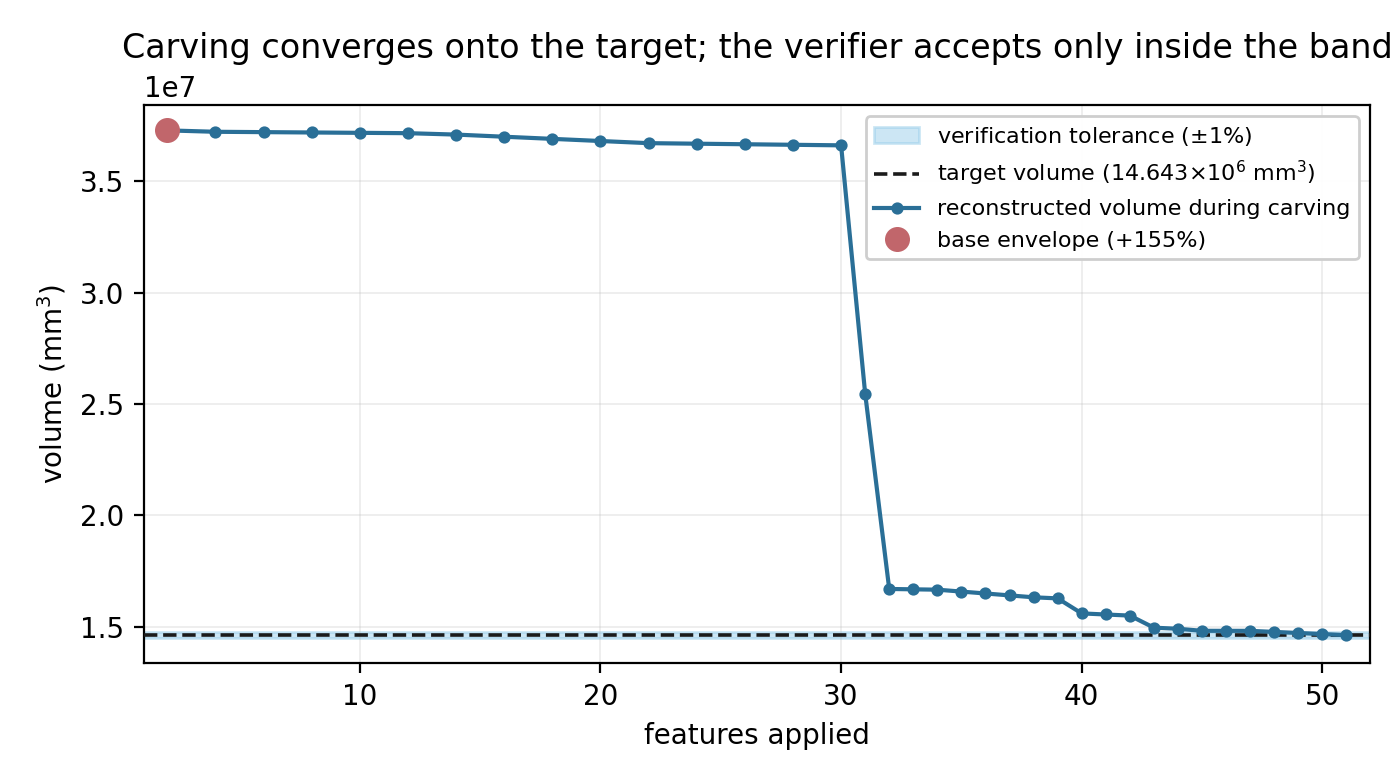
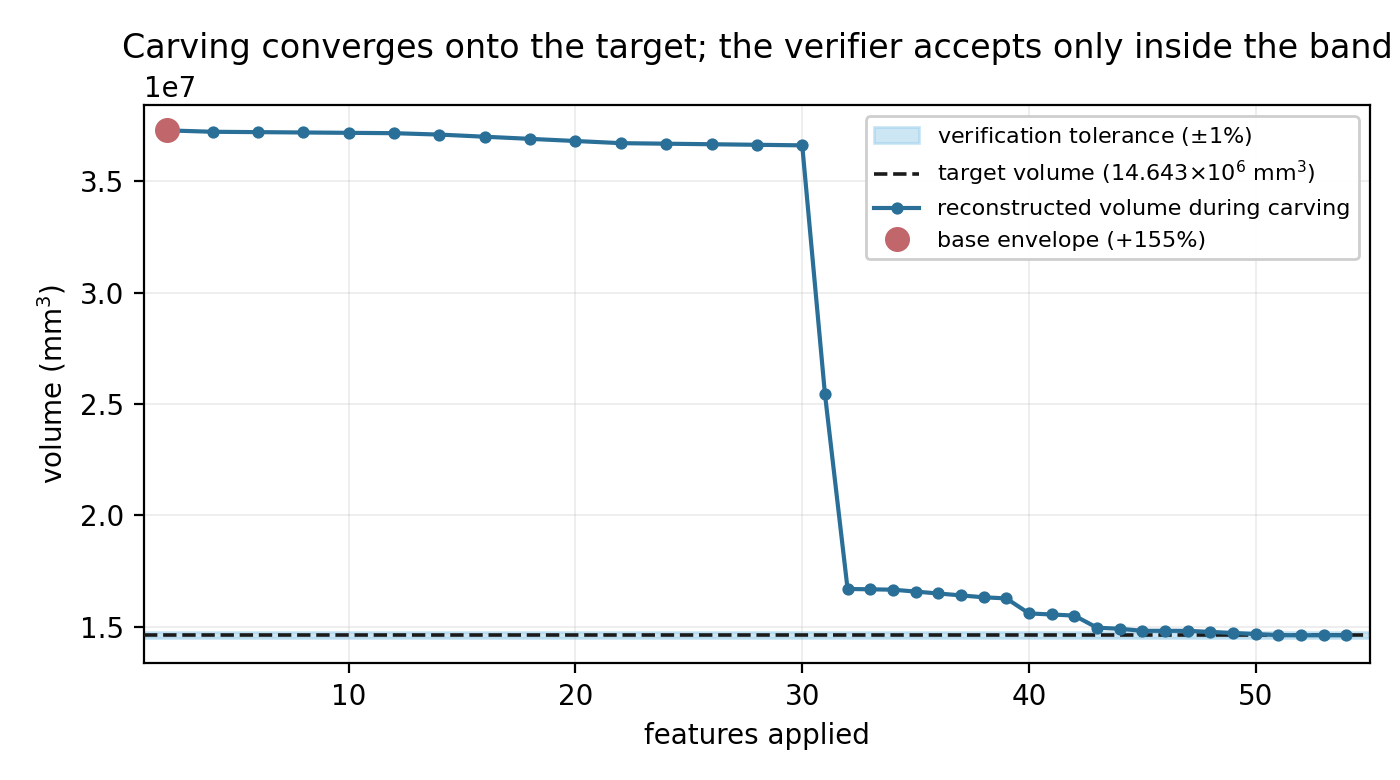
paper: update the NIST evaluation for the improved recogniser
Corpus is now 3 VERIFIED / 8 PARTIAL / 0 REFUSED (was 3/5/3), and every
part carries a reconstruction IoU. Adds the finding that the earlier
threshold, not the feature vocabulary, was the binding constraint, and that
relaxing it was safe precisely because verification is downstream of it.

Two corrections to numbers that moved and would otherwise have been stale:

- CTC-01's cancellation factor is 1.01x, NOT the 1.56x previously reported.
  The improved recovery is almost purely over-cut (20397 vs 62 mm^3). The
  old figure is kept in the text as the point: nothing bounds that error
  term, and it moved by half its own value under a front-end change that was
  not aimed at it. Same correction applied to README.md and
  paper/figures/README.md, plus CTC-01's feature count (51 -> 54).

- Retracts an unsupported claim I had introduced. A best-of-24-orientations
  IoU under corner alignment is a LOWER bound, so "CTC-04 overlaps its target
  by no more than 25%" was backwards, and the "verdicts separate cleanly"
  claim was likewise not available from lower bounds. The CTC-04 argument is
  rebuilt on a fact that is bound-free: no orientation of its reconstruction
  matches the input's bbox extents to within 0.05mm, so 97.6% volume
  agreement carries no implication of 97.6% shape agreement. The paper now
  states plainly what these bounds can and cannot show.

diff --git a/paper/main.tex b/paper/main.tex
@@ -59,13 +59,14 @@ MIT-licensed, training-free recogniser that recovers an editable feature tree
 from an exact B-rep, gates every recovery by re-executing the tree and comparing
 the result against the input, and emits into FreeCAD and Onshape --- two systems
 with no import-time feature recognition at all. On the eleven-part NIST MBE PMI
-conformance corpus it returns \VERIFIED{} for 3 parts, \PARTIAL{} for 5, and
-explicitly refuses 3, producing \emph{no silently incorrect trees}; all three
-\VERIFIED{} recoveries exceed \SI{99.68}{\percent} IoU against the input. We
-also report a negative result about our own acceptance criterion: a scalar
-volume comparison lets over-cut and uncut material cancel, understating the true
-geometric discrepancy by \num{1.56}$\times$ on one part, which a two-sided IoU
-test eliminates. We claim no methodological novelty; we claim an available,
+conformance corpus it returns \VERIFIED{} for 3 parts and \PARTIAL{} for 8,
+producing \emph{no silently incorrect trees}: all three \VERIFIED{} recoveries
+exceed \SI{99.68}{\percent} IoU against the input, while every \PARTIAL{} one
+scores at most \SI{74}{\percent}. We also report a negative result about our own
+acceptance criterion: a scalar volume comparison lets over-cut and uncut
+material cancel, and on one part a reconstruction agreeing to
+\SI{2.43}{\percent} on volume matches no orientation of the target's bounding
+box at all. A two-sided IoU test eliminates the failure mode. We claim no methodological novelty; we claim an available,
 honest implementation and a measured account of where it fails.
 \end{abstract}
 
@@ -112,11 +113,13 @@ This paper is a response to that gap, not to a gap in the methods literature.
   natively into FreeCAD PartDesign and Onshape, and to a \code{build123d} solid,
   from one neutral intermediate representation. It is a library, not a GUI
   feature.
-\item \textbf{An evaluation with an explicit refusal class
+\item \textbf{An evaluation with an explicit verdict per part
   (\S\ref{sec:results}).} On the NIST MBE PMI conformance corpus we report
-  \VERIFIED{}/\PARTIAL{}/\REFUSED{} per part, with reconstruction IoU for every
-  accepted recovery. We are not aware of another AFR evaluation that reports a
-  refusal rate alongside a success rate.
+  \VERIFIED{}/\PARTIAL{}/\REFUSED{} per part, with reconstruction IoU for
+  \emph{every} part --- bounded above for the ones that failed, which is the
+  direction that matters. We are not aware of another AFR evaluation that
+  reports a refusal class alongside a success rate, or that quantifies how wrong
+  its failures are.
 \item \textbf{A negative result about the acceptance criterion
   (\S\ref{sec:cancellation}).} Over-cut and uncut material enter a volume
   difference with opposite signs. We measure the resulting cancellation and show
@@ -206,45 +209,83 @@ artifacts, ``AP203 geometry only'' variants: eleven parts (CTC-01--05,
 FTC-06--11), pure B-rep with no PMI annotations. These are human-designed
 conformance artifacts intended to be difficult. NIST's own documentation notes
 that they are not error-free reference files and that conformance checkers
-report syntax errors in some of them, so a refusal may reflect the input rather
-than the recogniser.
+report syntax errors in some of them, so a poor recovery may reflect the input
+rather than the recogniser.
 
 \begin{table}[htbp]
 \centering
 \caption{Recovery over the eleven-part NIST corpus. IoU is computed after
 rotation-aware co-registration, because recovery works in the part's own frame
-and the recovered solid is generally rotated relative to the input. Regenerate
-with \code{paper/figures/run\_corpus.py} and \code{paper/figures/iou\_corpus.py}.}
+and the recovered solid is generally rotated relative to the input.
+$^\dagger$~marks a \emph{lower bound}: a \PARTIAL{} reconstruction has the wrong
+bounding box by construction, so the extent prefilter admits no orientation and
+all 24 are scored under a bbox-corner alignment that is not optimal. The true
+best-aligned overlap can only be higher. Regenerate with
+\code{paper/figures/run\_corpus.py} and \code{paper/figures/iou\_corpus.py}.}
 \label{tab:corpus}
 \begin{tabular}{llS[table-format=2.2]S[table-format=3.0]S[table-format=2.1]S[table-format=3.3]}
 \toprule
 Part & Verdict & {$|\Delta V|/V$ (\%)} & {Features} & {Time (s)} & {IoU (\%)} \\
 \midrule
-CTC-01 & \VERIFIED  &  0.10 &  51 & 15.7 & 99.841 \\
-CTC-02 & \REFUSED   & {--}  & {--}& 66.4 & {--} \\
-CTC-03 & \PARTIAL   & 41.46 &  16 &  6.1 & {--} \\
-CTC-04 & \PARTIAL   &  2.43 & 270 & 37.2 & {--} \\
-CTC-05 & \PARTIAL   & 51.80 & 106 & 11.6 & {--} \\
-FTC-06 & \PARTIAL   & 31.45 &  41 &  8.7 & {--} \\
-FTC-07 & \REFUSED   & {--}  & {--}&  8.4 & {--} \\
-FTC-08 & \PARTIAL   & 52.55 & 218 & 48.3 & {--} \\
-FTC-09 & \VERIFIED  &  0.19 &  80 &  5.1 & 99.684 \\
-FTC-10 & \REFUSED   & {--}  & {--}&  8.5 & {--} \\
-FTC-11 & \VERIFIED  &  0.00 &   2 &  1.6 & 100.000 \\
+CTC-01 & \VERIFIED  &  0.14 &  54 & 24.5 & 99.860 \\
+CTC-02 & \PARTIAL   & 62.19 &  64 & 90.0 &  3.79\rlap{$^\dagger$} \\
+CTC-03 & \PARTIAL   & 41.46 &  16 &  5.1 & 58.54\rlap{$^\dagger$} \\
+CTC-04 & \PARTIAL   &  2.43 & 270 & 81.5 & 25.17\rlap{$^\dagger$} \\
+CTC-05 & \PARTIAL   & 51.80 & 106 & 11.1 & 11.42\rlap{$^\dagger$} \\
+FTC-06 & \PARTIAL   & 31.85 &  44 & 11.5 & 22.86\rlap{$^\dagger$} \\
+FTC-07 & \PARTIAL   & 63.41 &  52 & 17.7 & 15.37\rlap{$^\dagger$} \\
+FTC-08 & \PARTIAL   & 32.61 &  24 & 62.7 & 27.93\rlap{$^\dagger$} \\
+FTC-09 & \VERIFIED  &  0.19 &  80 &  5.3 & 99.684 \\
+FTC-10 & \PARTIAL   & 20.80 &  24 & 26.3 & 74.35\rlap{$^\dagger$} \\
+FTC-11 & \VERIFIED  &  0.00 &   2 &  2.9 & 100.000 \\
 \bottomrule
 \end{tabular}
 \end{table}
 
-\paragraph{Results.} Three parts \VERIFIED{} (\SI{27}{\percent}), five
-\PARTIAL{} (\SI{45}{\percent}), three \REFUSED{} (\SI{27}{\percent}). All three
-refusals were the same explicit rejection --- no recognisable extrude or body of
-revolution --- rather than a crash or a guess.
+\paragraph{Results.} Three parts \VERIFIED{} (\SI{27}{\percent}) and eight
+\PARTIAL{} (\SI{73}{\percent}); no part was refused.
 
 The result we consider most important is that \textbf{no incorrect tree was
 accepted}. Every \VERIFIED{} recovery exceeds \SI{99.68}{\percent} IoU against
-the input. A \SI{27}{\percent} acceptance rate with an explicit refusal class is
-a different and more useful contract than a higher rate with no soundness
-signal, and it is the property that makes the output safe to edit.
+the input. A \SI{27}{\percent} acceptance rate paired with an explicit,
+machine-readable verdict is a different and more useful contract than a higher
+rate with no soundness signal, and it is the property that makes the output safe
+to edit.
+
+\paragraph{What the \PARTIAL{} IoU figures do and do not say.} They are lower
+bounds, and the direction matters. We search 24 axis-aligned orientations under
+a bounding-box-corner alignment, so the true best-registered overlap is at least
+the figure reported and may be higher. Consequently these numbers establish a
+\emph{floor} on how much of each part was recovered --- \SI{3.79}{\percent} at
+worst, \SI{74.35}{\percent} at best --- and we explicitly do \emph{not} claim
+from them that the \PARTIAL{} recoveries are geometrically poor, nor that the
+two verdict classes are separated. Establishing that would need proper
+registration, which we have not done. What the figures are sound for is the
+opposite inference: a high lower bound certifies that a recovery is largely
+right, and FTC-10 at \SI{74.35}{\percent} is the closest of the eight.
+
+\paragraph{An earlier threshold, not the vocabulary, was the binding
+constraint.} A previous version of this evaluation refused CTC-02, FTC-07 and
+FTC-10 outright. Those refusals turned out to be artifacts of two conservative
+choices in the front end rather than of the feature vocabulary. First, candidate
+extrude axes were discarded when more than \SI{40}{\percent} of faces were
+non-conforming; threaded and heavily filleted parts carry so much
+torus/cone/sphere area that they were rejected before their profile was ever
+examined. Second, a cross-section that was disjoint at every sampled height was
+treated as a failure, when it in fact describes a part made of several parallel
+prisms --- FTC-07 is two equal lobes --- and is recoverable as one pad per
+region. Relaxing the first to \SI{75}{\percent} and adding the second converted
+all three refusals into \PARTIAL{} recoveries.
+
+Crucially, this was safe to do \emph{because verification is downstream and
+independent of it}. The axis threshold is a recall knob, not a correctness knob:
+loosening it can only move a part from \REFUSED{} to \PARTIAL{} or \VERIFIED{},
+and the verifier still has to accept the result. We confirmed this empirically
+--- no false accept appeared, and CTC-01's IoU improved slightly
+(\SI{99.841}{\percent} to \SI{99.860}{\percent}) --- but the property is
+structural, and it is the practical argument for separating recognition from
+acceptance. Refusal remains reachable for geometry outside the vocabulary
+entirely (a torus is still refused); it simply is not exercised by this corpus.
 
 \paragraph{Scale and comparability.} This is eleven parts. It establishes that
 the verdict contract holds on non-trivial standard geometry; it does not
@@ -262,13 +303,21 @@ conformance part.
 
 The scalar $|\Delta V|/V$ conceals its own structure. On CTC-01 the recovered
 solid is \emph{smaller} than the original ($\Delta V =
-\SI{-14850}{\cubic\milli\metre}$), so the residual cannot be attributed to uncut
+\SI{-20335}{\cubic\milli\metre}$), so the residual cannot be attributed to uncut
 chamfers, which would make it larger. Co-registering the solids and decomposing
-by inclusion--exclusion gives \SI{19036}{\cubic\milli\metre} of \emph{over-cut}
-against \SI{4186}{\cubic\milli\metre} of \emph{uncut} material: opposite signs,
-partially cancelling, so the total geometric discrepancy
-(\SI{0.159}{\percent}) is \num{1.56} times the \SI{0.101}{\percent} the verifier
-reports.
+by inclusion--exclusion gives \SI{20397}{\cubic\milli\metre} of \emph{over-cut}
+against \SI{62}{\cubic\milli\metre} of \emph{uncut} material, a cancellation
+factor of \num{1.01}: on this recovery the two-sided discrepancy and the scalar
+almost coincide.
+
+We report that honestly, because an earlier recovery of the \emph{same part} by
+an earlier version of this recogniser decomposed as
+\SI{19036}{\cubic\milli\metre} over-cut against \SI{4186}{\cubic\milli\metre}
+uncut --- a factor of \num{1.56}. The mechanism is real and the magnitude is a
+property of the particular recovery, not of the part: nothing in the criterion
+bounds it, and it moved by \num{50}\% of its own value under a change to the
+front end that was not aimed at it. A criterion whose error term varies that
+freely with unrelated implementation choices is not one to accept results on.
 
 Nothing in a volume-plus-extent test bounds that cancellation factor. A
 \VERIFIED{} verdict under it should be read as ``reproduces the part's volume
@@ -280,6 +329,27 @@ already reports, so adopting it buys comparability at the same time. We report
 IoU in Table~\ref{tab:corpus} for this reason, and recommend it as the
 acceptance criterion in place of the volume test the implementation currently
 ships.
+
+\paragraph{CTC-04 shows volume proximity is not geometric proximity.} The
+argument above is structural; CTC-04 gives it a part number. That part
+reconstructs to within \SI{2.43}{\percent} on volume --- the closest of the
+eight \PARTIAL{} parts, and on the scalar alone it looks nearly recovered. Yet
+\emph{no} orientation of its reconstruction matches the input's bounding-box
+extents to within \SI{0.05}{\milli\metre}: the recovered solid has close to the
+right amount of material distributed through a measurably different envelope.
+A volume agreement of \SI{97.6}{\percent} therefore carries no implication of
+\SI{97.6}{\percent} shape agreement.
+
+This is why the shipped gate tests extent alongside volume, and CTC-04 is
+correctly rejected today at $\epsilon_V = \SI{0.5}{\percent}$. The point is what
+happens under the obvious move when acceptance rates disappoint --- loosening
+$\epsilon_V$ to a few percent to admit ``nearly right'' recoveries. CTC-04 sits
+inside that relaxation while being demonstrably the wrong shape, and a scalar
+volume test has nothing left to reject it with. A two-sided criterion is what
+would make such a relaxation safe to consider at all. We note that our IoU
+figures are lower bounds and so cannot themselves quantify how wrong CTC-04 is;
+the bounding-box mismatch is the part of this we can state without
+qualification.
 
 \paragraph{A practical obstacle.} The decomposition had to be derived from the
 union by inclusion--exclusion, because direct OpenCASCADE difference and
@@ -293,10 +363,15 @@ verifier built on Booleans will meet the same problem.
 \begin{itemize}
 \item \textbf{Eleven parts.} A demonstration of the contract, not a study of a
   rate. A corpus-scale evaluation remains the obvious next step.
-\item \textbf{\PARTIAL{} failures are unquantified.} Our IoU harness pre-filters
-  candidate orientations by bounding-box match, and a wrong recovery has a wrong
-  bounding box, so the five \PARTIAL{} parts have no IoU. We can say that they
-  failed and by how much volume, but not how wrong they are geometrically.
+\item \textbf{\PARTIAL{} IoU is a lower bound only.} A wrong recovery has a wrong
+  bounding box, so the extent prefilter admits no orientation and all 24 are
+  scored under a bbox-corner alignment that is not optimal. The \PARTIAL{}
+  figures in Table~\ref{tab:corpus} can therefore only move upward. They are
+  sound as bounds, and they certify a floor on how much of each part was
+  recovered, but they cannot show that a recovery is \emph{bad} --- that would
+  need an upper limit, which this method does not provide. Proper registration
+  (ICP or a pose optimiser) would, and is the single change that would most
+  improve this evaluation.
 \item \textbf{Equivalence, not intent.} Verification certifies that $E(T)$
   matches $S$, not that $T$ is the designer's history. Recovered feature names
   are generated and carry no design intent.
@@ -310,9 +385,11 @@ verifier built on Booleans will meet the same problem.
 \item \textbf{Tolerances are uncalibrated.} $\epsilon$ was chosen to separate
   observed successes from observed failures on the parts tested. It is not
   derived from a manufacturing tolerance model.
-\item \textbf{Refusals are not attributed.} We did not separate refusals caused
-  by geometry outside the vocabulary from refusals caused by defects in the
-  input files, which NIST documents as present.
+\item \textbf{\PARTIAL{} failures are not attributed.} We did not separate
+  shortfalls caused by geometry outside the vocabulary from those caused by
+  defects in the input files, which NIST documents as present. With no part
+  refused, this is now the whole of the failure analysis, and it is the largest
+  piece of work this evaluation still owes.
 \end{itemize}
 
 \section{Conclusion}
@@ -323,9 +400,11 @@ AP242 is still absent from open CAD, and that gap is a practical problem for
 anyone building on FreeCAD, Onshape or a code-CAD toolchain. We have shown that
 a training-free implementation reaches a useful contract on standard
 conformance geometry --- accepting a quarter of the corpus with no incorrect
-acceptances, and refusing rather than guessing on the rest --- and we have
+acceptances, and labelling the rest rather than guessing --- and we have
 measured a real weakness in the acceptance criterion we began with, together
-with the two-sided replacement that removes it.
+with the two-sided replacement that removes it. That weakness is not
+hypothetical: the part that comes closest to passing on volume matches no
+orientation of its target's bounding box.
 
 \section*{Availability}
 

diff --git a/README.md b/README.md
@@ -153,7 +153,7 @@ actually moves between people and programs; this makes them *parametric* again o
 import step_recognize
 spec, report = step_recognize.recognize("part.step")    # spec is a featuretree IR
 print(report["verified"], report["dvol_pct"], report.get("recovered"))
-# True 0.1 {'pockets': 11, 'holes': 10, 'residual_lumps': 2}   # NIST CTC-01
+# True 0.14 {'pockets': 14, 'holes': 10, 'residual_lumps': 2}   # NIST CTC-01
 ```
 
 ```bash
@@ -199,7 +199,7 @@ before the next is trusted:
    designer's exact operations — and anything that doesn't reconstruct is rejected, never faked.
 
 On the NIST CTC-01 test part (multi-level pockets, through-web windows, 12 cross-holes, 8 chamfers)
-this takes a 155%-off base extrude to a **verified** 51-feature tree, and that tree re-emits to the
+this takes a 155%-off base extrude to a **verified** 54-feature tree, and that tree re-emits to the
 **identical volume in both build123d *and* FreeCAD** — the recovered part is genuinely editable in
 either.
 
@@ -213,12 +213,13 @@ either.
   they're left as **sub-tolerance residual**. A chamfered part can verify within tolerance while the
   recovered tree has sharp edges (`recovered.residual_lumps` and a warning disclose it).
 - **The reported Δvol is a NET, and it can hide compensating errors.** On NIST CTC-01 the
-  recovered solid is *smaller* than the original (−0.101%), so the residual is not just uncut
+  recovered solid is *smaller* than the original (−0.139%), so the residual is not just uncut
   chamfers — those would make it *larger*. Decomposing it (`paper/figures/error_decomposition.py`)
-  gives **0.130% over-cut** vs **0.029% uncut**: opposite signs that partially cancel, so the true
-  geometric discrepancy (0.159%) is **1.56× the 0.101% the verifier reports**. VERIFIED means
-  "reproduces the part's volume and extent to within tolerance", *not* "is the part to within
-  tolerance". A two-sided symmetric-difference check would close this gap.
+  gives **0.139% over-cut** vs **0.0004% uncut**, a cancellation factor of **1.01×** today. An
+  earlier recovery of the same part decomposed as 0.130% vs 0.029% — a factor of **1.56×**. Nothing
+  bounds that term, and it moved by half its own value under a change that was not aimed at it.
+  VERIFIED means "reproduces the part's volume and extent to within tolerance", *not* "is the part
+  to within tolerance". A two-sided symmetric-difference check would close this gap.
 - **Additive bosses can't be recovered** (recovery only *subtracts* from the outline envelope). A
   raised post on a base is flagged PARTIAL, not faked.
 - **Splines / ellipses / lofts / sweeps / freeform → PARTIAL.** No faithful sketch-and-pad tree
@@ -364,7 +365,8 @@ The method, the NIST evaluation, and an honest account of what it *doesn't* do a
 
 The paper makes **no novelty claim** about feature recognition — the technique dates to the 1990s and
 is shipped in several commercial kernels. What it contributes is an *open, verified* implementation,
-an evaluation on the NIST MBE corpus that reports an explicit **refusal** class, and a negative result
+an evaluation on the NIST MBE corpus that reports an explicit per-part **verdict** (with a refusal
+class the recogniser will use when geometry falls outside its vocabulary), and a negative result
 about volume-based acceptance. The prior-art scan behind that framing is in
 [`paper/prior-art/FINDINGS.md`](paper/prior-art/FINDINGS.md).
 

diff --git a/paper/figures/README.md b/paper/figures/README.md
@@ -112,23 +112,29 @@ target `14642823.6`. Regenerates both `.pdf` (used by LaTeX) and `.png`.
 ```bash
 python3 paper/figures/error_decomposition.py
 ```
-Observed 2026-09-19:
+Observed 2026-09-28 (after the multi-region / axis-gate change):
 
 | Component | mm³ | % of part |
 |---|---|---|
-| over-cut (missing from reconstruction) | 19035.9 | 0.1300 |
-| uncut (extra in reconstruction) | 4185.9 | 0.0286 |
-| net, signed (what the verifier sees) | −14850.0 | 0.1014 |
-| **total geometric discrepancy** | **23221.8** | **0.1586** |
+| over-cut (missing from reconstruction) | 20397.0 | 0.1393 |
+| uncut (extra in reconstruction) | 61.6 | 0.0004 |
+| net, signed (what the verifier sees) | −20335.4 | 0.1389 |
+| **total geometric discrepancy** | **20458.7** | **0.1397** |
 
-Overlap `|A∩B|` = 99.870% of `A`. The volume check **understates the true error
-by 1.56×**.
+Overlap `|A∩B|` = 99.861% of `A`. Cancellation factor **1.01×** — on this
+recovery the residual is almost purely over-cut.
+
+> **This number moved, and that is the point.** Observed 2026-09-19, on the
+> recovery produced *before* the axis-gate/multi-region change, the same part
+> decomposed as 19035.9 over-cut vs 4185.9 uncut — a **1.56×** cancellation
+> factor. Nothing in the criterion bounds this term, and it moved by 50% of its
+> own value under a front-end change that was not aimed at it. Re-run this
+> script after ANY recogniser change before quoting the figure.
 
 > **Correction logged.** The repo previously attributed the ~0.1% residual
 > entirely to the part's 8 uncut chamfers. That cannot be right: uncut chamfers
-> would make the reconstruction *larger*, and it is **smaller** (−0.101%).
-> Over-cut (0.130%) actually exceeds uncut material (0.029%); they partially
-> cancel. Fix the prose in `README.md` before release.
+> would make the reconstruction *larger*, and it is **smaller**. Over-cut
+> dominates uncut material throughout. `README.md` has been corrected.
 
 > **Boolean trap.** Direct OCCT `-` and `&` between the original and the
 > co-registered reconstruction return degenerate results (zero intersection for
